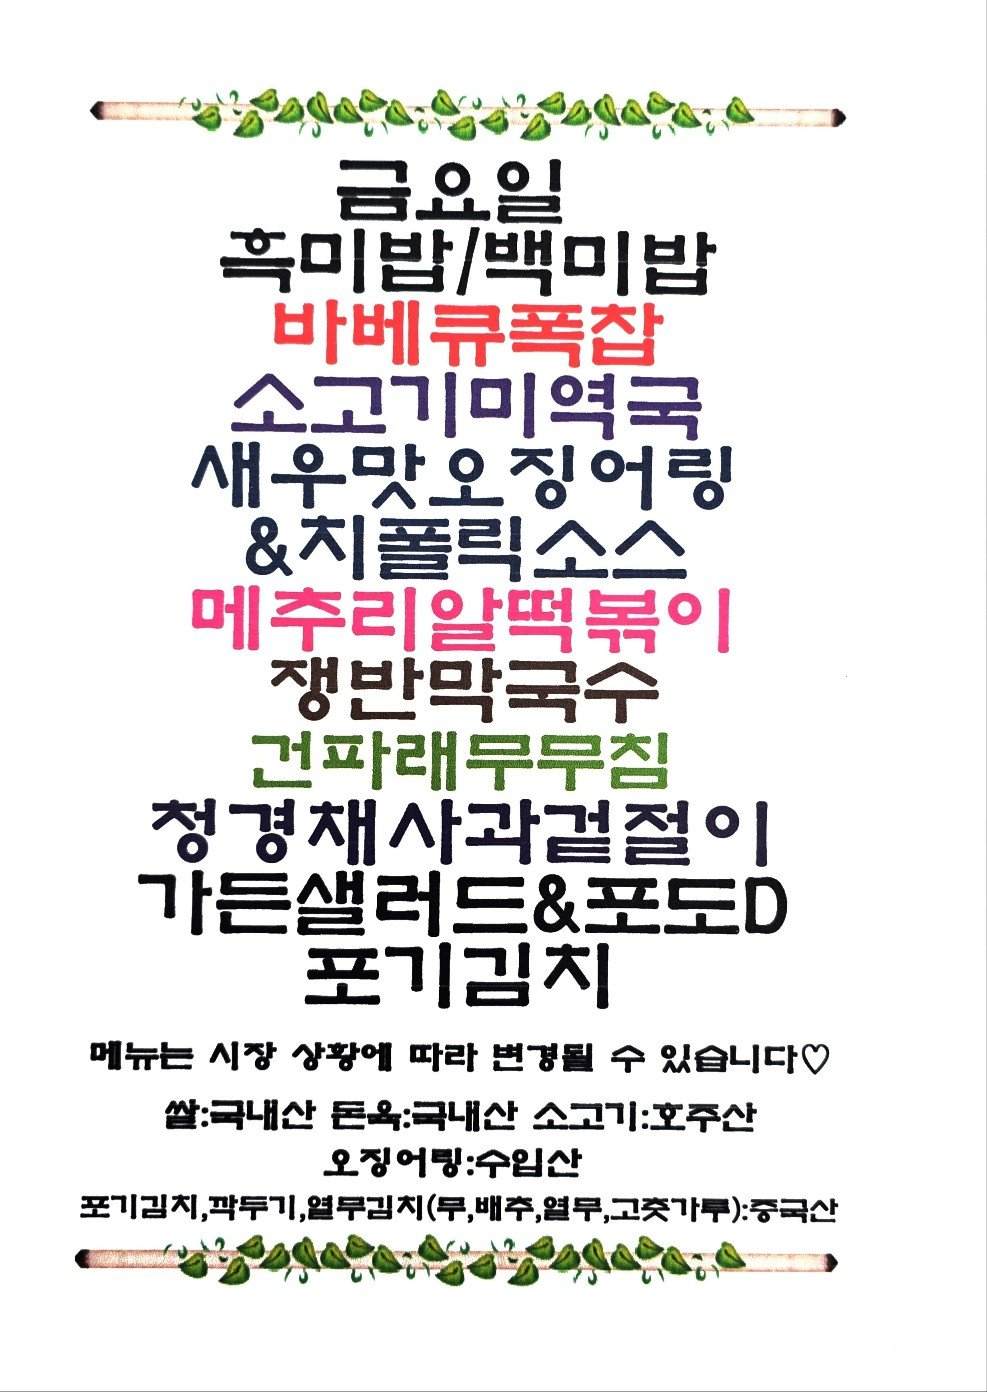
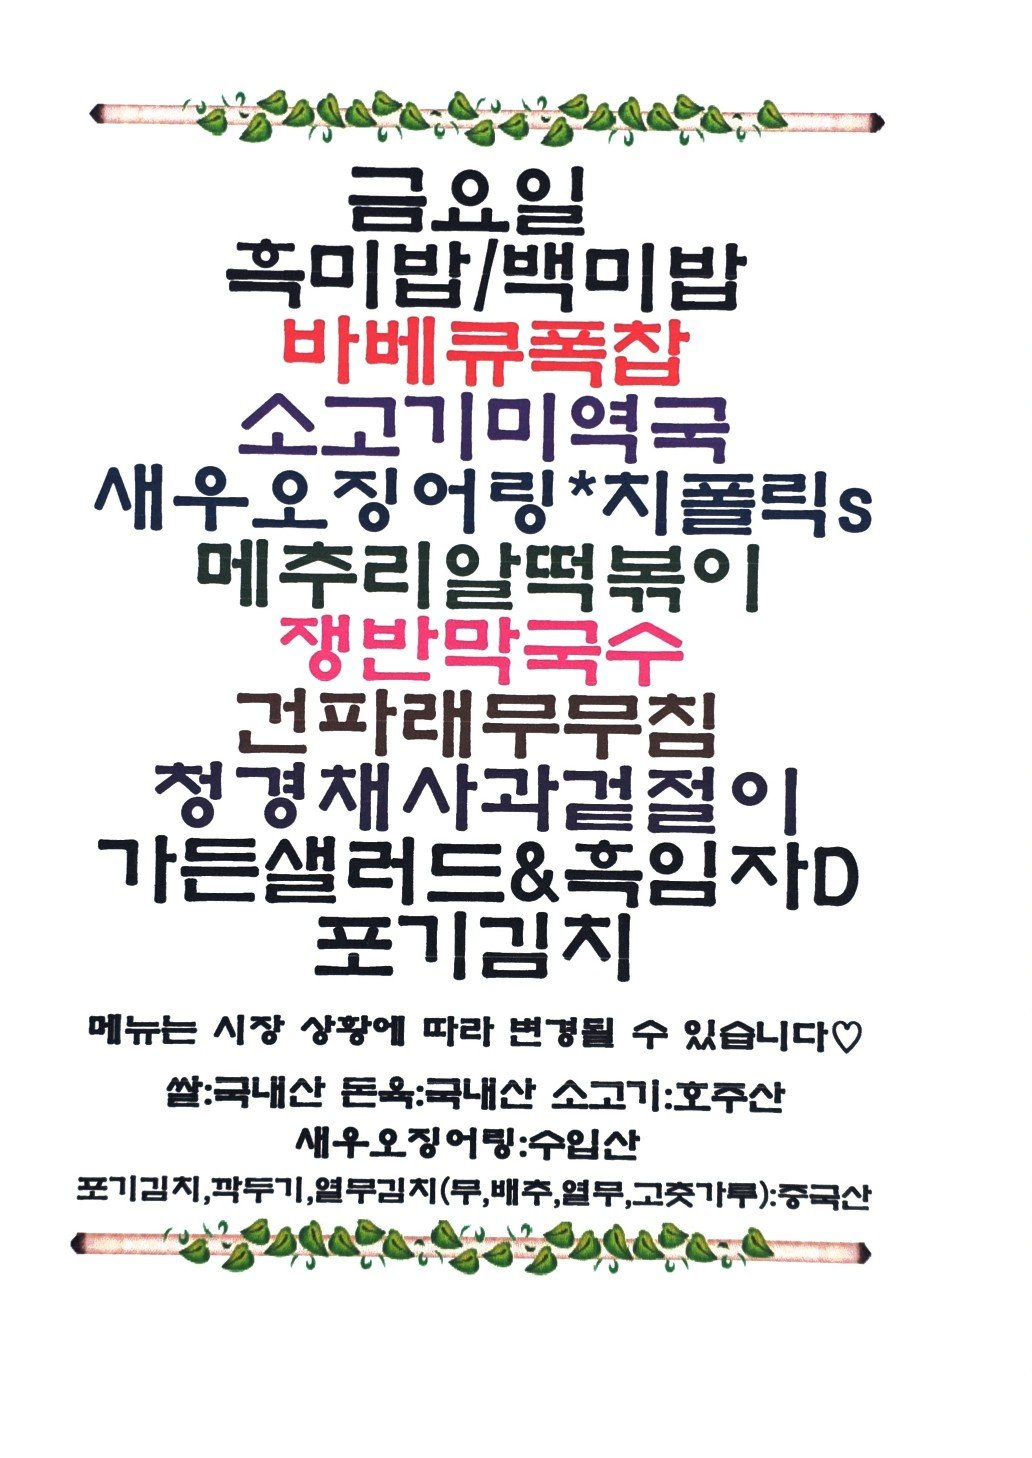
Update menu board assets

Changed region(s): [[0.0608, 0.0618, 0.8511, 0.9267]]

diff --git a/menu-today/index.html b/menu-today/index.html
@@ -209,7 +209,7 @@
 
     <section class="meta-bar">
       <div class="meta-card"><div class="meta-label">기준 날짜</div><div class="meta-value">2026년 10월 2일 금요일</div></div>
-      <div class="meta-card"><div class="meta-label">최종 가져온 시간</div><div class="meta-value">2026-10-02 10:33:17</div></div>
+      <div class="meta-card"><div class="meta-label">최종 가져온 시간</div><div class="meta-value">2026-10-02 10:48:12</div></div>
       <div class="meta-card"><div class="meta-label">확인 완료</div><div class="meta-value">9개 식당</div></div>
       <div class="meta-card"><div class="meta-label">준비중</div><div class="meta-value">3개 채널</div></div>
     </section>
@@ -295,7 +295,7 @@
             <div class="sub">에이스테크노타워10차</div>
           </div>
         </div>
-        <div class="menu-inline-image"><img src="./images/thefoodsketch.png" alt="더푸드스케치 식단 이미지"></div><ul><li>직화닭불고기</li><li>오징어먹물크림치스볼</li><li>에그토마토브리또</li><li>= 순대볶음</li><li>해파리냉채</li><li>숙주나물 / 요구르트</li><li>가든샐러드 / 드레싱</li><li>배추겉절이 / 응료</li><li>가쓰오으도</li></ul>
+        <div class="menu-inline-image"><img src="./images/thefoodsketch.png" alt="더푸드스케치 식단 이미지"></div><ul><li>직화닭불고기</li><li>오징어먹물크림치스볼</li><li>에그토마토브리또</li><li>= 순대볶음</li><li>해파리냉채</li><li>숙주나물 / 요구르트</li><li>가든샐러드 &amp; 드레싱</li><li>배추겉절이 / 응료</li><li>가쓰오으도</li></ul>
       </article>
 
       <article class="restaurant-card">
@@ -305,7 +305,7 @@
             <div class="sub">스타밸리</div>
           </div>
         </div>
-        <div class="menu-inline-image"><img src="./images/starvalley-food4u-post.png" alt="스타밸리푸드포유 식단 이미지"></div><ul><li>=O] 밤 — a 밤</li><li>소고기 미역국</li><li>새우맛.오징어링</li><li>&amp; 시졸릭소스</li><li>메주리알떡볶이</li><li>쟁반막국수</li><li>건파래무무침</li><li>청경채사과겉절이</li><li>가든샐러드 &amp; 포도D</li><li>포기김치</li><li>오징어링:수입산</li></ul>
+        <div class="menu-inline-image"><img src="./images/starvalley-food4u-post.png" alt="스타밸리푸드포유 식단 이미지"></div><div class="info-note">오늘 메뉴 미수집 상태입니다.</div>
       </article>
     </section>
 

diff --git a/guro-menu/index.html b/guro-menu/index.html
@@ -32,7 +32,7 @@
   </header>
   <section class="meta">
     <div><small>기준 날짜</small><strong>2026년 10월 2일 금요일</strong></div>
-    <div><small>최종 갱신</small><strong>2026-10-02 10:33:29</strong></div>
+    <div><small>최종 갱신</small><strong>2026-10-02 10:48:28</strong></div>
     <div><small>등록 식당</small><strong>5개</strong></div>
   </section>
   <div class="notice">공개 카카오 채널의 메뉴 이미지를 자동 수집하고 OCR로 정리합니다. 텍스트에 오타가 있을 수 있으니 식단 이미지를 함께 확인해 주세요.</div>
